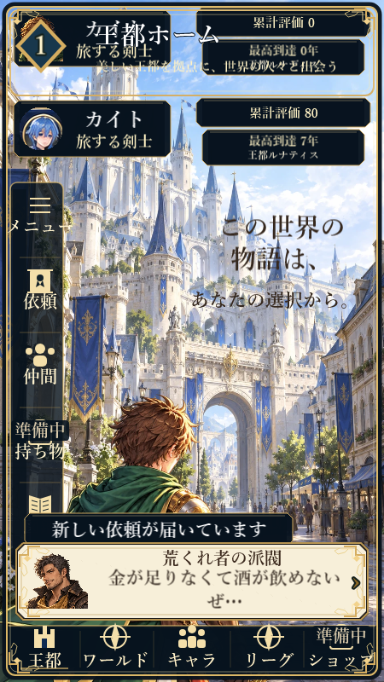
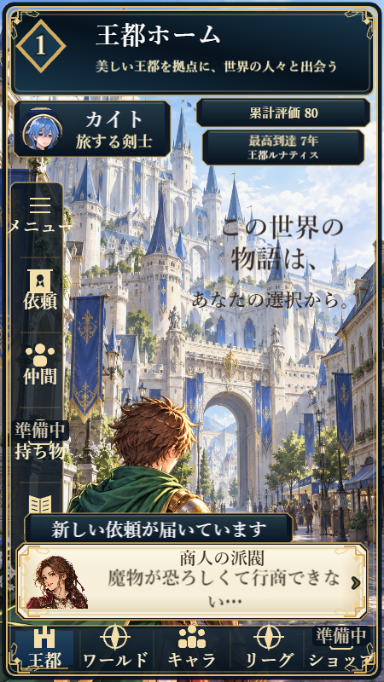
fix(karma): remove obsolete header revealed by Canvas rendering

diff --git a/games/karma-quest/src/conceptArt.ts b/games/karma-quest/src/conceptArt.ts
@@ -602,20 +602,9 @@ function buildTitle(scene: Runtime): Phaser.GameObjects.Container {
   const shade = scene.add.graphics();
   shade.fillGradientStyle(0x07141b, 0x07141b, 0x07141b, 0x07141b, 0.03, 0.03, 0.04, 0.04).fillRect(0, 0, 450, 800);
   root.add(shade);
-  hudPlate(scene, root, 108, 45, 184, 66);
-  bustWindow(scene, root, HERO_DIALOGUE_KEY, 22, 18, 52, 54, 0.6);
-  text(scene, root, 134, 34, "カイト", 24, "#ffffff", "900").setStroke("#091420", 1);
-  text(scene, root, 134, 60, "旅する剣士", 18, "#fff2c4", "700").setStroke("#091420", 0);
-  // Separate lifetime progress from the current location so both scan like
-  // the approved resource and season rows without covering the hero.
-  hudPlate(scene, root, 332, 26, 204, 34);
-  text(scene, root, 332, 26, `累計評価 ${loadTotalEvaluation()}`, 15, "#fff2c4", "900").setStroke("#091420", 1);
-  hudPlate(scene, root, 332, 67, 190, 42);
-  text(scene, root, 332, 59, `最高到達 ${loadBestStage()}年`, 14, "#fff2c4", "900").setStroke("#091420", 1);
-  text(scene, root, 332, 76, "王都ルナディス", 12, "#fff6dd", "700").setStroke("#091420", 0);
   // Chapter header and live status row mirror the approved home hierarchy.
-  // They intentionally cover the earlier compact header without replacing any
-  // progress source: lifetime evaluation and best stage remain live values.
+  // Do not draw the superseded compact header underneath: Canvas renderers
+  // can expose it through the chapter's gradient and show stale progress.
   const chapter = scene.add.graphics();
   chapter.fillGradientStyle(0x07131e, 0x18374c, 0x07131e, 0x102a3e, 1, 1, 1, 1)
     .fillRoundedRect(12, 12, 426, 100, 10);

diff --git a/games/karma-quest/e2e/game.spec.ts b/games/karma-quest/e2e/game.spec.ts
@@ -114,8 +114,7 @@ test("home keeps live progress values, capital context, and long request copy", 
   const approvedAvatar = avatarLayers.find(layer => layer.key === "kq-approved-avatar-visible");
   const placeholderAvatar = avatarLayers.find(layer => layer.key === "kq-dialogue-hero-v1");
   expect(approvedAvatar).toEqual(expect.objectContaining({ name: "approved-home-avatar", x: 48, y: 151, alpha: 1 }));
-  expect(approvedAvatar!.rootDepth).toBeGreaterThanOrEqual(placeholderAvatar!.rootDepth);
-  expect(approvedAvatar!.childIndex).toBeGreaterThan(placeholderAvatar!.childIndex);
+  expect(placeholderAvatar).toBeUndefined();
 
   await page.evaluate(() => Reflect.set(window.__qaGame.scene.getScene("GameScene"), "homeRequest", {
     id: "merchant_monster", faction: "merchant", karmaDelta: 8,
@@ -734,6 +733,7 @@ test("home progress updates immediately after claiming a raid reward", async ({ 
   await tapPoint(page, 225, 604);
   await expect.poll(() => homeValue("home-total-evaluation")).toBe("累計評価 80");
   await expect.poll(() => homeValue("home-best-stage")).toBe("最高到達 7年");
+  expect((await loadingFeedback(page)).texts.filter(value => value.startsWith("累計評価 "))).toEqual(["累計評価 80"]);
   await page.locator("canvas").screenshot({ path: "../../docs/review/karma-home-live-reward.png" });
   await tapPoint(page, 315, 758);
   await expect.poll(async () => (await loadingFeedback(page)).texts.join(" ")).toContain("Rating 500");

diff --git a/docs/review/karma-home-progress-2026-10-19.md b/docs/review/karma-home-progress-2026-10-19.md
@@ -4,6 +4,7 @@
 
 - 報酬受取後、縦ホームの累計評価を再読み込みなしで更新する。
 - 最高到達も最新値を表示する。
+- WebKitの実画面で露出した旧ヘッダーの重複描画を削除し、古い評価値と文字の重なりを除去する。
 - 縦横回転、リーグ、再読み込み後の値の一致を検証する。
 
 縦ホームだけが作成時の保存値を固定表示していた。既存のホーム更新処理で累計評価・最高到達のラベルを更新する。配置・素材・評価計算・保存処理は変更なし。PR #340上の継続作業。
